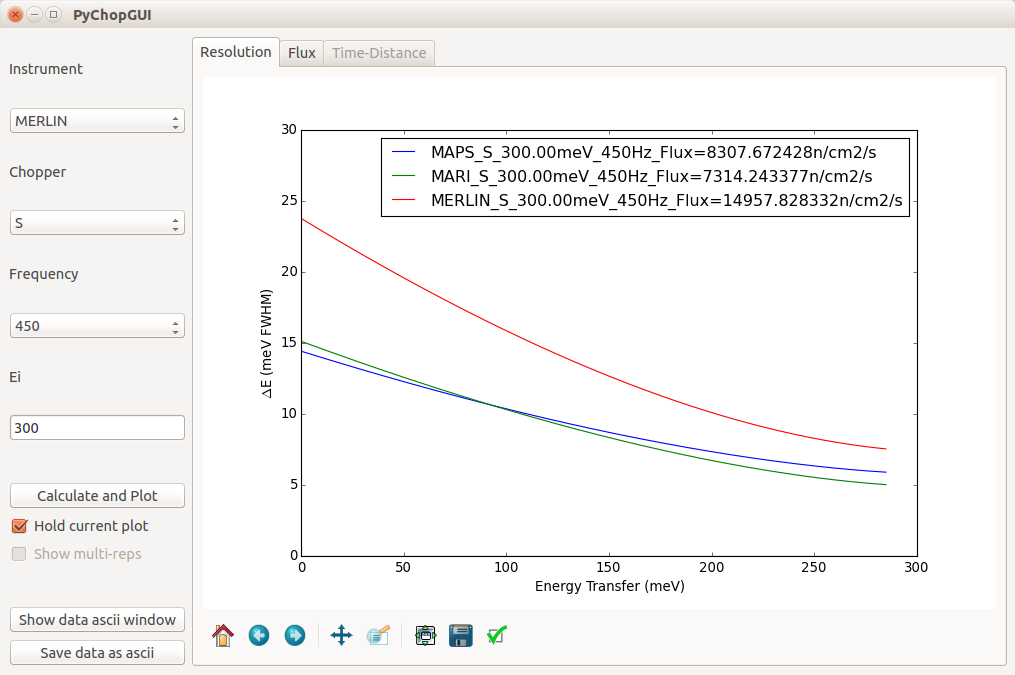
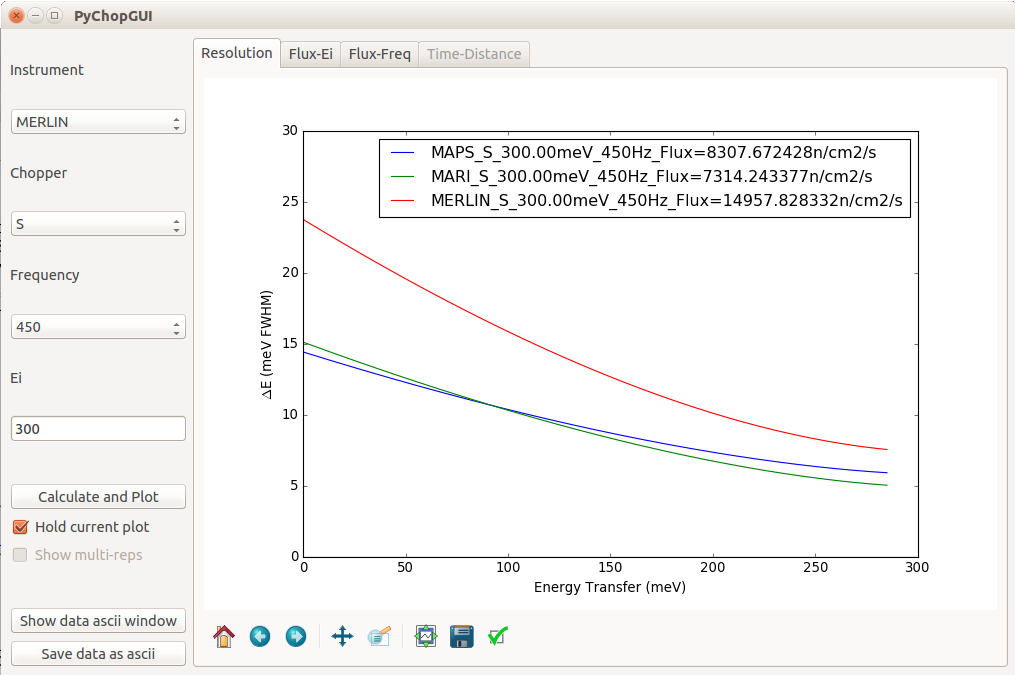
Re #10147 - Fixed typo in LET code. Added plots vs freq.

diff --git a/scripts/PyChop/PyChopGui.py b/scripts/PyChop/PyChopGui.py
@@ -8,6 +8,7 @@ This module contains a class to create a graphical user interface for PyChop.
 """
 
 import sys
+import re
 import numpy as np
 from .PyChop2 import PyChop2
 from PyQt4 import QtGui, QtCore
@@ -37,7 +38,7 @@ class PyChopGui(QtGui.QMainWindow):
         Defines the instrument parameters by the name of the instrument.
         Allowed values: 'LET', 'MAPS', 'MARI', 'MERLIN' (case-insensitive)
         """
-        self.tabs.setTabEnabled(2, False)
+        self.tabs.setTabEnabled(self.tdtabID, False)
         self.widgets['ChopperCombo']['Combo'].clear()
         self.widgets['FrequencyCombo']['Combo'].clear()
         self.widgets['PulseRemoverCombo']['Combo'].clear()
@@ -58,7 +59,7 @@ class PyChopGui(QtGui.QMainWindow):
                 self.widgets['FrequencyCombo']['Combo'].addItem(str(fq))
         if 'LET' in str(instname) or 'MERLIN' in str(instname):
             self.widgets['MultiRepCheck'].setEnabled(True)
-            self.tabs.setTabEnabled(2, True)
+            self.tabs.setTabEnabled(self.tdtabID, True)
             if 'LET' in str(instname):
                 self.widgets['Chopper2Phase']['Edit'].show()
                 self.widgets['Chopper2Phase']['Label'].show()
@@ -90,7 +91,7 @@ class PyChopGui(QtGui.QMainWindow):
         if 'MERLIN' in self.engine.instname:
             if 'G' in str(choppername):
                 self.widgets['MultiRepCheck'].setEnabled(True)
-                self.tabs.setTabEnabled(2, True)
+                self.tabs.setTabEnabled(self.tdtabID, True)
                 self.widgets['Chopper2Phase']['Edit'].setText('1500')
                 self.widgets['Chopper2Phase']['Label'].setText('Disk chopper phase delay time')
                 if self.instSciAct.isChecked():
@@ -99,25 +100,25 @@ class PyChopGui(QtGui.QMainWindow):
             else:
                 self.widgets['MultiRepCheck'].setEnabled(False)
                 self.widgets['MultiRepCheck'].setChecked(False)
-                self.tabs.setTabEnabled(2, False)
+                self.tabs.setTabEnabled(self.tdtabID, False)
                 self.widgets['Chopper2Phase']['Edit'].hide()
                 self.widgets['Chopper2Phase']['Label'].hide()
 
-    def setFreq(self, freqtext=None):
+    def setFreq(self, freqtext=None, **kwargs):
         """
         Sets the chopper frequency(ies), in Hz.
         """
+        freq_gui = float(self.widgets['FrequencyCombo']['Combo'].currentText())
+        freq_in = kwargs['manual_freq'] if ('manual_freq' in kwargs.keys()) else freq_gui
         if 'LET' in str(self.engine.instname):
-            freq1 = float(self.widgets['FrequencyCombo']['Combo'].currentText())
             freqpr = float(self.widgets['PulseRemoverCombo']['Combo'].currentText())
             chop2phase = float(self.widgets['Chopper2Phase']['Edit'].text()) % 1e5
-            self.engine.setFrequency([freq1, freqpr], Chopper2Phase=chop2phase)
+            self.engine.setFrequency([freq_in, freqpr], Chopper2Phase=chop2phase)
         elif 'MERLIN' in str(self.engine.instname) and 'G' in self.engine.getChopper():
-            freq = float(self.widgets['FrequencyCombo']['Combo'].currentText())
             chop2phase = float(self.widgets['Chopper2Phase']['Edit'].text()) % 2e4
-            self.engine.setFrequency(freq, Chopper2Phase=chop2phase)
+            self.engine.setFrequency(freq_in, Chopper2Phase=chop2phase)
         else:
-            self.engine.setFrequency(float(self.widgets['FrequencyCombo']['Combo'].currentText()))
+            self.engine.setFrequency(freq_in)
 
     def setEi(self):
         """
@@ -135,7 +136,8 @@ class PyChopGui(QtGui.QMainWindow):
         """
         Calls routines to calculate the resolution / flux and to update the Matplotlib graphs.
         """
-        self.plot_flux()
+        self.plot_flux_ei()
+        self.plot_flux_hz()
         try:
             if self.engine.getChopper() is None:
                 self.setChopper(self.widgets['ChopperCombo']['Combo'].currentText())
@@ -205,13 +207,22 @@ class PyChopGui(QtGui.QMainWindow):
         self.resaxes.set_ylabel(r'$\Delta$E (meV FWHM)')
         self.rescanvas.draw()
 
-    def plot_flux(self):
+    def plot_flux_ei(self, **kwargs):
         """
-        Plots the flux in the middle tab
+        Plots the flux vs Ei in the middle tab
         """
         inst = self.engine.instname
+        chop = self.engine.getChopper()
         freq = self.engine.getFrequency()
         if hasattr(freq, '__len__'): freq = freq[-1]
+        update = kwargs['update'] if 'update' in kwargs.keys() else False
+        prevtitle = self.flxaxes1.get_title()
+        # Do not recalculate if all relevant parameters still the same.
+        if prevtitle != "" and not update:
+            searchStr = '([A-Z]+) "([A-z ]+)" ([0-9]+) Hz'
+            prevInst, prevChop, prevFreq = re.search(searchStr, prevtitle).groups()
+            if inst == prevInst and chop == prevChop and freq == float(prevFreq):
+                return
         ne = 25
         mn = self.minE[inst]
         mx = (self.flxslder.val/100)*self.maxE[inst]
@@ -225,7 +236,7 @@ class PyChopGui(QtGui.QMainWindow):
             except ValueError:
                 pass
         self.flxaxes1.clear()
-        self.flxaxes1.set_title('%s %s %d Hz' % (inst, self.engine.getChopper(), freq))
+        self.flxaxes1.set_title('%s "%s" %d Hz' % (inst, chop, freq))
         self.flxaxes1.set_xlabel('Incident Energy (meV)')
         self.flxaxes1.set_ylabel('Flux (n/cm$^2$/s)')
         self.flxaxes1.spines['right'].set_visible(False)
@@ -255,8 +266,54 @@ class PyChopGui(QtGui.QMainWindow):
         else:
             val = self.flxslder.val * self.maxE[self.engine.instname] / 100
             self.flxedt.setText('%3.2f' % (val))
-        self.plot_flux()
+        self.plot_flux_ei(update=True)
         self.flxcanvas.draw()
+
+    def plot_flux_hz(self):
+        """
+        Plots the flux vs freq in the middle tab
+        """
+        inst = self.engine.instname
+        chop = self.engine.getChopper()
+        ei = float(self.widgets['EiEdit']['Edit'].text())
+        overplot = self.widgets['HoldCheck'].isChecked()
+        # Do not recalculate if one of the plots has the same parametersc
+        _, labels = self.frqaxes2.get_legend_handles_labels()
+        if labels and (overplot or len(labels) == 1):
+            for prevtitle in labels:
+                searchStr = '([A-Z]+) "([A-z ]+)" Ei = ([0-9.-]+) meV'
+                prevInst, prevChop, prevEi = re.search(searchStr, prevtitle).groups()
+                if inst == prevInst and chop == prevChop and abs(ei-float(prevEi)) < 0.01:
+                    return
+        freq0 = self.engine.getFrequency()
+        freqs = np.arange(10, 201, 10) if 'LET' in inst else np.arange(50, 601, 50)
+        flux = np.zeros(len(freqs))
+        elres = np.zeros(len(freqs))
+        for ie, freq in enumerate(freqs):
+            try:
+                self.setFreq(manual_freq=freq)
+                flux[ie] = self.engine.getFlux(ei)
+                elres[ie] = self.engine.getResolution(0., ei)[0]
+            except ValueError:
+                pass
+        if overplot:
+            self.frqaxes1.hold(True)
+            self.frqaxes2.hold(True)
+        else:
+            self.frqaxes1.clear()
+            self.frqaxes2.clear()
+        self.setFreq(manual_freq=(freq0[-1] if 'LET' in inst else freq0))
+        self.frqaxes1.set_xlabel('Chopper Frequency (Hz)')
+        self.frqaxes1.set_ylabel('Flux (n/cm$^2$/s)')
+        line, = self.frqaxes1.plot(freqs, flux, 'o-')
+        self.frqaxes1.set_xlim([0, np.max(freqs)])
+        self.frqaxes2.set_xlabel('Chopper Frequency (Hz)')
+        self.frqaxes2.set_ylabel('Elastic Resolution FWHM (meV)')
+        line, = self.frqaxes2.plot(freqs, elres, 'o-')
+        line.set_label('%s "%s" Ei = %5.3f meV' % (inst, chop, ei))
+        self.frqaxes2.legend()
+        self.frqaxes2.set_xlim([0, np.max(freqs)])
+        self.frqcanvas.draw()
 
     def instSciCB(self):
         """
@@ -486,7 +543,6 @@ class PyChopGui(QtGui.QMainWindow):
         self.flxaxes1.set_ylabel('Flux (n/cm$^2$/s)')
         self.flxaxes2 = self.flxaxes1.twinx()
         self.flxaxes2.set_ylabel('Elastic Resolution FWHM (meV)')
-
         self.flxfig_controls = NavigationToolbar(self.flxcanvas, self)
         self.flxsldfg = Figure()
         self.flxsldfg.patch.set_facecolor('white')
@@ -507,12 +563,27 @@ class PyChopGui(QtGui.QMainWindow):
         sz = self.flxsldwdg.maximumSize()
         sz.setHeight(50)
         self.flxsldwdg.setMaximumSize(sz)
-
         self.flxtabbox = QtGui.QVBoxLayout()
         self.flxtabbox.addWidget(self.flxcanvas)
         self.flxtabbox.addWidget(self.flxsldwdg)
         self.flxtabbox.addWidget(self.flxfig_controls)
         self.flxtab.setLayout(self.flxtabbox)
+
+        self.frqfig = Figure()
+        self.frqfig.patch.set_facecolor('white')
+        self.frqcanvas = FigureCanvas(self.frqfig)
+        self.frqaxes1 = self.frqfig.add_subplot(121)
+        self.frqaxes1.set_xlabel('Chopper Frequency (Hz)')
+        self.frqaxes1.set_ylabel('Flux (n/cm$^2$/s)')
+        self.frqaxes2 = self.frqfig.add_subplot(122)
+        self.frqaxes1.set_xlabel('Chopper Frequency (Hz)')
+        self.frqaxes2.set_ylabel('Elastic Resolution FWHM (meV)')
+        self.frqfig_controls = NavigationToolbar(self.frqcanvas, self)
+        self.frqtab = QtGui.QWidget(self.tabs)
+        self.frqtabbox = QtGui.QVBoxLayout()
+        self.frqtabbox.addWidget(self.frqcanvas)
+        self.frqtabbox.addWidget(self.frqfig_controls)
+        self.frqtab.setLayout(self.frqtabbox)
 
         self.repfig = Figure()
         self.repfig.patch.set_facecolor('white')
@@ -529,9 +600,11 @@ class PyChopGui(QtGui.QMainWindow):
         self.reptab.setLayout(self.reptabbox)
 
         self.tabs.addTab(self.restab, 'Resolution')
-        self.tabs.addTab(self.flxtab, 'Flux')
+        self.tabs.addTab(self.flxtab, 'Flux-Ei')
+        self.tabs.addTab(self.frqtab, 'Flux-Freq')
         self.tabs.addTab(self.reptab, 'Time-Distance')
-        self.tabs.setTabEnabled(2, False)
+        self.tdtabID = 3
+        self.tabs.setTabEnabled(self.tdtabID, False)
         self.rightPanel.addWidget(self.tabs)
 
         self.menuOptions = QtGui.QMenu('Options')

diff --git a/scripts/PyChop/ISISDisk.py b/scripts/PyChop/ISISDisk.py
@@ -33,10 +33,10 @@ class ISISDisk:
         if 'LET' in instname:
             self.instname = 'LET'
             # Sets parameters which are the same for all configurations
-            self.dist = [7.83,8.4,11.75, 15.66, 23.5]          # distance to each chopper in m (same for all conf)
+            self.dist = [7.83, 8.4, 11.75, 15.66, 23.5]        # distance to each chopper in m (same for all conf)
             self.nslot = [6, 1, 2, 6, 2]                       # number of slots in each chopper. Assumed equally spaced
-            self.guide_width = [40, 40, 40, 40, 20]            # width of the guide in mm 
-            self.radius = [290, 545, 290, 290, 290]            # radius in mm of each disk at centre of window 
+            self.guide_width = [40, 40, 40, 40, 20]            # width of the guide in mm
+            self.radius = [290, 545, 290, 290, 290]            # radius in mm of each disk at centre of window
             self.numDisk = [2, 1, 1, 1, 2]                     # whether double or single disks
             # possible instname: ['LET', 'LETHIFLUX', 'LETINTERMED', 'LETHIRES'] - corresponds to different configurations
             if 'FLUX' in instname or (variant is not None and 'FLUX' in variant.upper()):
@@ -95,9 +95,9 @@ class ISISDisk:
             if 'FLUX' in self.variant.upper():
                 if hasattr(frequency, "__len__"):
                     if len(frequency) == 1:
-                        self.freq = [frequency[0]/4., 10., frequency[0]/4., frequency[0]/2., frequency[0]]
+                        self.freq = [frequency[0]/4., 10., frequency[0]/2., frequency[0]/2., frequency[0]]
                     elif len(frequency) == 2:
-                        self.freq = [frequency[1]/2., 10., frequency[1]/2., frequency[0]/2., frequency[0]]
+                        self.freq = [frequency[1]/2., 10., frequency[1], frequency[0]/2., frequency[0]]
                     elif len(frequency) == 5:
                         self.freq = frequency
                     else:

diff --git a/docs/source/interfaces/PyChop.rst b/docs/source/interfaces/PyChop.rst
@@ -43,17 +43,23 @@ If the *Show multi-reps* check box is enabled (selected) then the resolution vs
 energy for all allowed Ei's will be plotted on the current axes. This only
 applies to LET or MERLIN with the G (gadolinium) chopper slit package.
 
-In the flux plot tab, there is a slider at the bottom and a line edit box to
-allow the user to select the maximum x-range (incident energy range) to plot.
+In the *Flux-Ei* plot tab, there is a slider at the bottom and a line edit box 
+to allow the user to select the maximum x-range (incident energy range) to plot.
 The plot updates when the slider or edit box is changed. To save computation 
 time, the flux / elastic resolution is only calculated at twenty incident energy
 points from 0.1 meV to the maximum selected.
 
-If the instrument is LET, the time-distance plot is enabled, and an additional
-option to change the phase of chopper 2 is available. This chopper has a wide
-openning and can be used to suppress low energy reps. The time delay which is
-specified in the chopper 2 phase edit box is the time-of-flight in microseconds
-relative to the moderator pulse when the chopper first opens.
+The flux and elastic resolution as a function of chopper frequency for the
+specified Ei is shown in the *Flux-Freq* plot tab. If *Hold current plot* is
+selected then several settings can be overplotted. The program will not overplot
+if it detects that only the frequency has changed.
+
+If the instrument is LET (or MERLIN with the G chopper), the time-distance plot 
+is enabled, and an additional option to change the phase of chopper 2 is 
+available. This chopper has a wide openning and can be used to suppress low 
+energy reps. The time delay which is specified in the chopper 2 phase edit box 
+is the time-of-flight in microseconds relative to the moderator pulse when the 
+chopper first opens.
 
 If the *Instrument scientist mode* option is selected, a similar option is
 enabled for MERLIN if the G chopper is used. In this case, the phase (time
